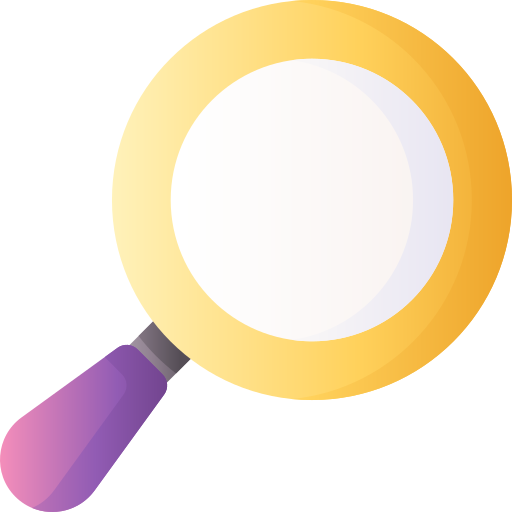
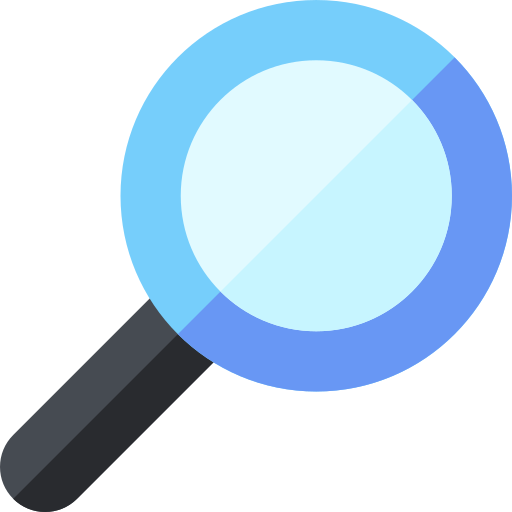
found users and new chats

diff --git a/src/App.jsx b/src/App.jsx
@@ -19,6 +19,8 @@ export function App() {
   const [chats, setChats] = useState([]);
   //chatID
   const [chatId, setChatId] = useState(null);
+  //newChatId
+  const [newChatId, setNewChatId] = useState(null);
   //messages
   const [messages, setMessages] = useState([]);
   //lastPoll hold the current time
@@ -31,7 +33,7 @@ export function App() {
   //the value of ref is inside the current
   let timer = useRef(null);
 
-  let lastChatId = useRef(null);
+  let savedChatId = useRef(null);
 
   //my user - holding my user id as a global parameter
   // let myUserID = "60c2523497fb4f41c011ad1b";
@@ -47,21 +49,23 @@ export function App() {
   useEffect(updateUserContext, [myFriends, myUser]);
 
   //useEffect triggers every re-render
-  useEffect(loadChats, [myUser?._id]);
+  useEffect(loadChats, [myUser?._id, newChatId, lastPoll]);
 
   //or chatId or lastPoll changes and trigger the useEffect
   //chatId => everytime we selecting chat from chats list
   //lastPoll => everytime we send request to the server
   useEffect(loadMessage, [chatId, lastPoll]);
 
+  //when chatId is change, want to trigger
+  //savedLastChatid function that save the chat id
+  useEffect(savedLastChatid, [chatId]);
+
   useEffect(startTimer, [lastPoll]);
 
   //get route
   function get(route) {
     // return fetch("http://localhost:8080/api/" + route).then((response) =>
-    return fetch(APP_URL + route).then((response) =>
-      response.json()
-    );
+    return fetch(APP_URL + route).then((response) => response.json());
   }
 
   // let get = (route) =>
@@ -104,10 +108,16 @@ export function App() {
       // get("chats/").then((chats) => {
       console.log(chats);
       setChats(chats);
-      // if (!chats) return;
-      // let defaultChat = lastChatId.current || chats[0]._id;
-      // setChatId(defaultChat);
-      setChatId(chats[0]._id);
+      if (!chats) return;
+      //except of the first time that chats[0]._id is null
+      //** chats[0]._id will always have value after the first time
+      //** but || statemant will search the value on the first opherand
+      //** only if it doesn't has any value it search on the second ophrand
+      //after setChatId will change the chatId render the component
+      //changing chatId will trigger saveLastChatId
+
+      let defaultChat = savedChatId.current || chats[0]._id;
+      setChatId(defaultChat);
     });
   }
 
@@ -128,20 +138,19 @@ export function App() {
     //so in order to use the object , we use then(myUser)
     // fetch("http://localhost:8080/api/users/" + myUserID)
     // fetch("http://localhost:8080/api/me", {
-    fetch(APP_URL + "me/", {  
+    fetch(APP_URL + "me/", {
       credentials: "include",
       mode: "cors",
     })
       .then((response) => response.json())
       .then((myUser) => {
-        console.log("Dori user : " + myUser._id);
         setMyUser(myUser);
       });
   }
 
   function loadMyFriends() {
     // fetch("http://localhost:8080/api/users/")
-    fetch(APP_URL+"users/")
+    fetch(APP_URL + "users/")
       .then((response) => response.json())
       .then((mf) => {
         let friends = mf.filter((friend) => friend._id !== myUser);
@@ -156,6 +165,10 @@ export function App() {
     timer.current = setTimeout(() => {
       setLastPoll(Date.now());
     }, 5000);
+  }
+
+  function savedLastChatid() {
+    savedChatId.current = chatId;
   }
 
   //find the selected chat using selectedID => find method
@@ -189,11 +202,13 @@ export function App() {
     });
   }
 
-  // function onClickFoundUsr(foundUser) {
-  //   post("chats/", chats.userIds[(myUser._id, foundUser)]).then((newChat) => {
-  //     setNewChatId(newChat._id);
-  //   });
-  // }
+  function onClickFoundUsr(foundUser) {
+    console.log(foundUser);
+    console.log(myUser._id);
+    post("chats/", { userIds: [(myUser._id, foundUser)] }).then((newChat) => {
+      setNewChatId(newChat._id);
+    });
+  }
 
   //create context of all users
   function updateUserContext() {
@@ -218,12 +233,12 @@ export function App() {
     <Panels>
       <Panel
         width={"35%"}
-        myUser={myUser.profilePic}
+        headerPic={myUser.profilePic}
         header={"User: " + myUser.userName}
         // header={"User: " + myUser.userName + " || Timing Delay: " + lastPoll}
         body={
           <div>
-            <SearchForm userContext={userContext} />
+            <SearchForm userContext={userContext} foundUser={onClickFoundUsr} />
             <p style={{ padding: "0 10px" }}>Chats:</p>
             <Chats
               chats={chats}
@@ -238,11 +253,11 @@ export function App() {
       <Panel
         width={"65%"}
         backgroundImage={backgroundImage}
+        headerPic={"chats.png"}
         header={
-          "ChatId: " +
-          selectedChat?._id +
-          " || Friend on chat:  " +
-          getUserByChat(selectedChat)
+          // "ChatId: " +
+          // selectedChat?._id +
+          "Friend on chat:  " + getUserByChat(selectedChat)
           // selectedChat?.userIds.filter((user) => user.userName).join(",")
         }
         //we pass allUser context to message in order to see all
@@ -257,7 +272,7 @@ export function App() {
         footer={<MessageForm onNewMassege={onNewMassege} />}
         // lastScroll is passing the lastPoll to the pane
         // lastPoll is changed when sending call to the server for messages
-        // when sending call to server the lastPoll is chnged and the pane will scroll the scrollbar down to the new message
+        // when sending call to server the lastPoll is chnged and the pane /// will scroll the scrollbar down to the new message
 
         lastScroll={lastPoll}
       />

diff --git a/src/Panels.jsx b/src/Panels.jsx
@@ -14,10 +14,9 @@ const SearchList = styled.div(() => ({
 }));
 
 const Image = styled.img(() => ({
-  height: "30px",
-  width: "30px",
+  height: "35px",
+  width: "35px",
   padding: "0 10px",
-  borderRadius: "50%",
   margin: "0",
 }));
 
@@ -28,7 +27,6 @@ const Body = styled.div((props) => ({
   backgroundSize: "150px 250px",
   backgroundColor: props.backgroundColor,
   backgroundImage: props.backgroundImage,
-  // padding: "0 10px",
   //   ...props,
   //spread props does not doing well with user-defined parameter name
   //that does not known as css property
@@ -69,12 +67,27 @@ export function Panel(props) {
     ref.current.scrollTo(0, ref.current.scrollHeight);
   }, [lastScroll]);
 
+  // props.myUser
   console.log(props.myUser);
   return (
     <Container width={width}>
       <Header>
-        <Image src={props.myUser} alt="" />
-        {header}
+        <div
+          style={{
+            display: "flex",
+            flexDirection: "row",
+            alignItems: "center",
+          }}
+        >
+          <Image
+            src={props.headerPic}
+            alt=""
+            style={{
+              borderRadius: props.headerPic != "chats.png" ? "50%" : "none",
+            }}
+          />
+          {header}
+        </div>
       </Header>
       <Body {...props} ref={ref}>
         <Search>{props.search}</Search>

diff --git a/src/SearchForm.jsx b/src/SearchForm.jsx
@@ -33,7 +33,7 @@ let Link = styled.a({
 });
 
 export function SearchForm(props) {
-  const APP_URL = "https://netapp-server-doriroz.herokuapp.com/api/";
+  // const APP_URL = "https://netapp-server-doriroz.herokuapp.com/api/";
   const [foundUsers, setFoundUsers] = useState([]);
 
   function onChangeUser(e) {
@@ -41,7 +41,8 @@ export function SearchForm(props) {
   }
 
   function get(route) {
-    return fetch(APP_URL + route, {
+    // return fetch(APP_URL + route, {
+    return fetch("http://localhost:8080/api/" + route, {
       credentials: "include",
       mode: "cors",
     }).then((response) => response.json());
@@ -53,6 +54,8 @@ export function SearchForm(props) {
       setFoundUsers(user);
     });
   }
+
+  
 
   return (
     <div>
@@ -67,10 +70,15 @@ export function SearchForm(props) {
       <List>
         Found Users :
         {foundUsers?.map((usr) => {
-          console.log("user name is : " + usr.userName);
+          console.log(usr);
           return (
             <li key={usr._id}>
-              <Link href="#">{usr.userName + " || "}</Link>
+              <Link href="#" 
+              data-user-id={usr._id}
+              onClick={(e)=>{
+                props.foundUser(e.target.dataset.userId)}
+                }
+              >{usr.userName + " || "}</Link>
             </li>
           );
         })}

diff --git a/src/Chats.jsx b/src/Chats.jsx
@@ -9,8 +9,10 @@ let ListStyle = styled.ul({
 
 let ItemStyled = styled.li({
   padding: "10px 5px 10px 5px",
-  border: "1px solid gray",
+  border: "1px solid #f4f2f2",
   cursor: "pointer",
+  fontSize:"18px",
+  // verticalAlign:"middle"
 });
 
 const ImgSearch = styled.img(() => ({
@@ -36,8 +38,11 @@ export function Chats(props) {
     <ListStyle>
       {props.chats.map((c) => (
         <ItemStyled key={c._id} onClick={() => props.onSelectChat(c._id)}>
+          <div style={{display:"flex",flexDirection:"row",alignItems:"center"}}>
           <ImgSearch src="users.png" />
           {joinUser(c, props.userContext.allUser)}
+          </div>
+          
         </ItemStyled>
       ))}
     </ListStyle>

diff --git a/src/MessageForm.jsx b/src/MessageForm.jsx
@@ -27,6 +27,7 @@ export function MessageForm({ onNewMassege }) {
     console.log(e.target);
     alert("sending message to server: " + e.target.newMessage.value);
     onNewMassege(e.target.newMessage.value);
+    e.target.newMessage.value = "";
   }
 
   return (
